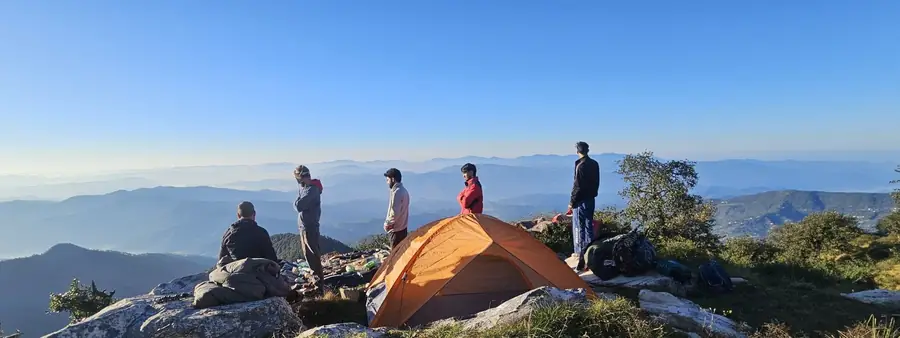
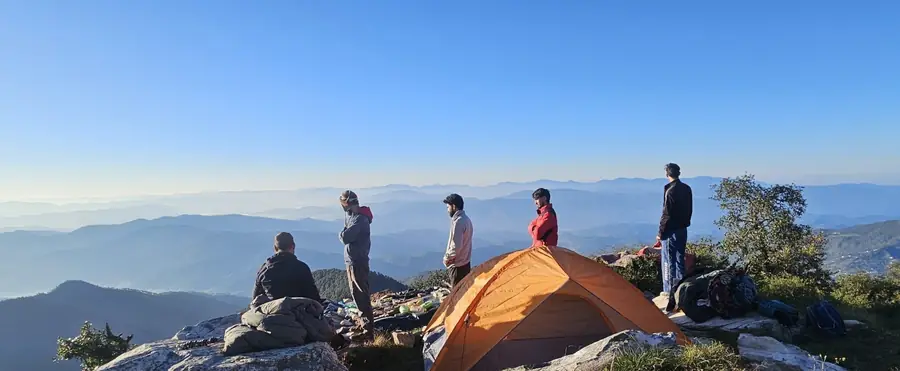
Show the treks photo whole below the headline so all five people are visible
Adds a "photo below" header layout: the text sits on a compact dark band
and the photo is shown undimmed underneath. On desktop it fills the rest
of the first screen, trimming sky rather than people; on phones it shows
uncropped. Used for the new summit camp crop on treks.html.

Claude-Session: https://claude.ai/code/session_01QtEvkyFWHujX5Z5bdzkCtw

diff --git a/treks.html b/treks.html
@@ -48,15 +48,16 @@
 </div>
 <main id="main">
 
-<section class="page-hero">
-  <div class="hero-media"><div class="media "><picture><source type="image/webp" srcset="/assets/img/photos/out/treks-hero-900.webp 900w, /assets/img/photos/out/treks-hero-1800.webp 1800w" sizes="(max-aspect-ratio: 1/1) 220vh, 100vw"><img src="/assets/img/photos/treks-hero.jpg" alt="" loading="eager" fetchpriority="high" decoding="async" width="1800" height="1200" style="--pos:20% 50%;--pos-m:52% 50%"></picture></div></div>
+<section class="page-hero page-hero--below">
   <div class="wrap page-hero-inner">
     <nav class="breadcrumbs" aria-label="Breadcrumb"><ol><li><a href="/">Home</a></li><li aria-current="page">Treks</li></ol></nav>
-    <span class="eyebrow">Treks</span>
-    <h1>Walk to notice, not to <em>conquer</em></h1>
-    <p class="lede">Five trails, graded honestly. These are the treks we know and lead ourselves, from a gentle forest climb to a glacier at the head of a valley.</p>
+    <div class="phb-grid">
+      <div><span class="eyebrow">Treks</span><h1>Walk to notice, not to <em>conquer</em></h1></div>
+      <p class="lede">Five trails, graded honestly. These are the treks we know and lead ourselves, from a gentle forest climb to a glacier at the head of a valley.</p>
+    </div>
     
   </div>
+  <div class="media media--natural"><picture><source type="image/webp" srcset="/assets/img/photos/out/treks-hero-900.webp 900w, /assets/img/photos/out/treks-hero-1800.webp 1800w" sizes="100vw"><img src="/assets/img/photos/treks-hero.jpg" alt="Five trekkers around an orange tent at a summit camp, looking out over layered Kumaun hills at sunrise" loading="eager" fetchpriority="high" decoding="async" width="2000" height="825"></picture></div>
 </section>
 <section class="section" style="padding-top:clamp(3rem,6vw,5rem)">
   <div class="wrap">

diff --git a/assets/css/site.css b/assets/css/site.css
@@ -247,6 +247,20 @@ body.menu-open { overflow: hidden; }
 .page-hero .lede { color: rgba(245, 241, 232, .82); margin-top: 1.5rem; }
 .page-hero .eyebrow { color: var(--ochre-soft); }
 .page-hero--plain { background: var(--ivory); color: var(--ink); }
+.page-hero--below .page-hero-inner { padding-bottom: clamp(2.5rem, 5vw, 4rem); }
+@media (min-width: 900px) {
+  .page-hero--below .page-hero-inner { padding-top: calc(var(--nav-h) + 2.5rem); padding-bottom: 2.5rem; }
+  .page-hero--below .breadcrumbs { margin-bottom: 1.25rem; }
+  .phb-grid { display: grid; grid-template-columns: 1.1fr .9fr; gap: 4rem; align-items: end; }
+  .phb-grid .eyebrow { margin-bottom: 1rem; }
+  .phb-grid h1 { max-width: none; }
+  .phb-grid .lede { margin: 0; }
+  /* Fit the photo into what is left of the screen, trimming sky rather than people. */
+  .page-hero--below .media--natural { height: clamp(340px, calc(100vh - 390px), 720px); }
+  .page-hero--below .media--natural img { height: 100%; object-fit: cover; object-position: 50% 82%; }
+}
+.media--natural { background: none; }
+.media--natural img { height: auto; display: block; }
 .page-hero--plain .lede { color: var(--ink-soft); }
 .page-hero--plain .eyebrow { color: var(--moss); }
 .breadcrumbs { font-size: var(--fs-xs); letter-spacing: .14em; text-transform: uppercase; margin-bottom: 2rem; opacity: .75; }

diff --git a/src/pages.py b/src/pages.py
@@ -75,11 +75,25 @@ def cta(title="Let’s plan a quieter kind of journey.", text="Tell us what you 
 </section>"""
 
 
-def page_hero(eyebrow, title, lede, scene, slot, crumbs=None, facts=None):
+def page_hero(eyebrow, title, lede, scene, slot, crumbs=None, facts=None, photo_below=False, alt=""):
+    """Page header. With photo_below, the text sits on a dark band and the photo is shown
+    whole underneath it, uncropped and undimmed (for group shots where everyone must show)."""
     crumb_html = crumbs or ""
     facts_html = ""
     if facts:
         facts_html = '<dl class="facts">' + "".join(f"<div><dt>{E(k)}</dt><dd>{E(v)}</dd></div>" for k, v in facts) + "</dl>"
+    if photo_below and photo_sources(slot):
+        return f"""<section class="page-hero page-hero--below">
+  <div class="wrap page-hero-inner">
+    {crumb_html}
+    <div class="phb-grid">
+      <div><span class="eyebrow">{E(eyebrow)}</span><h1>{title}</h1></div>
+      <p class="lede">{E(lede)}</p>
+    </div>
+    {facts_html}
+  </div>
+  {media(slot, scene, alt, cls="media--natural", eager=True, sizes="100vw")}
+</section>"""
     return f"""<section class="page-hero">
   <div class="hero-media">{media(slot, scene, "", eager=True, sizes="(max-aspect-ratio: 1/1) 220vh, 100vw")}</div>
   <div class="wrap page-hero-inner">
@@ -721,7 +735,7 @@ def treks():
   </div>
 </article>""")
     body = f"""
-{page_hero("Treks", "Walk to notice, not to <em>conquer</em>", "Five trails, graded honestly. These are the treks we know and lead ourselves, from a gentle forest climb to a glacier at the head of a valley.", ("snow", 9), "treks-hero", crumbs)}
+{page_hero("Treks", "Walk to notice, not to <em>conquer</em>", "Five trails, graded honestly. These are the treks we know and lead ourselves, from a gentle forest climb to a glacier at the head of a valley.", ("snow", 9), "treks-hero", crumbs, photo_below=True, alt="Five trekkers around an orange tent at a summit camp, looking out over layered Kumaun hills at sunrise")}
 <section class="section" style="padding-top:clamp(3rem,6vw,5rem)">
   <div class="wrap">
     <div class="notice reveal"><p>Each trek lives inside a longer journey, and the shorter ones can also be walked on their own. Groups of 4 to 10, led by our BMC certified lead guide. Dates are released in small batches. Message us and we will tell you what is opening next.</p></div>

diff --git a/src/templates.py b/src/templates.py
@@ -45,7 +45,6 @@ FOCUS = {
     "trek-pandavkholi": "55% 60%",
     "trek-bharatkot": "60% 60%",
     "journeys-hero": "50% 62%",
-    "treks-hero": ("20% 50%", "52% 50%"),
     "experiences-hero": ("0% 65%", "46% 65%"),
     "about-hero": "50% 45%",
     "team-nishant": "50% 70%",
@@ -54,6 +53,16 @@ FOCUS = {
     "pandavkholi-1": "60% 60%",
     "bharatkot-1": "50% 55%",
 }
+
+
+def natural_size(web_path):
+    """Pixel size of a photo, so the browser reserves the right space before it loads."""
+    try:
+        from PIL import Image
+        with Image.open(os.path.join(ROOT, web_path.lstrip("/"))) as im:
+            return im.size
+    except Exception:
+        return 1800, 1200
 
 
 def media(slot, scene, alt, cls="", eager=False, sizes="(min-width: 900px) 50vw, 100vw"):
@@ -69,7 +78,8 @@ def media(slot, scene, alt, cls="", eager=False, sizes="(min-width: 900px) 50vw,
         else:
             pos = f' style="--pos:{focus}"' if focus else ""
         fetch = ' fetchpriority="high"' if eager else ""
-        inner = f'<picture>{source}<img src="{src["fallback"]}" alt="{escape(alt)}" loading="{loading}"{fetch} decoding="async" width="1800" height="1200"{pos}></picture>'
+        w, h = natural_size(src["fallback"]) if "media--natural" in cls else (1800, 1200)
+        inner = f'<picture>{source}<img src="{src["fallback"]}" alt="{escape(alt)}" loading="{loading}"{fetch} decoding="async" width="{w}" height="{h}"{pos}></picture>'
     else:
         kind, seed = scene
         inner = art.scene(kind, seed, alt)
